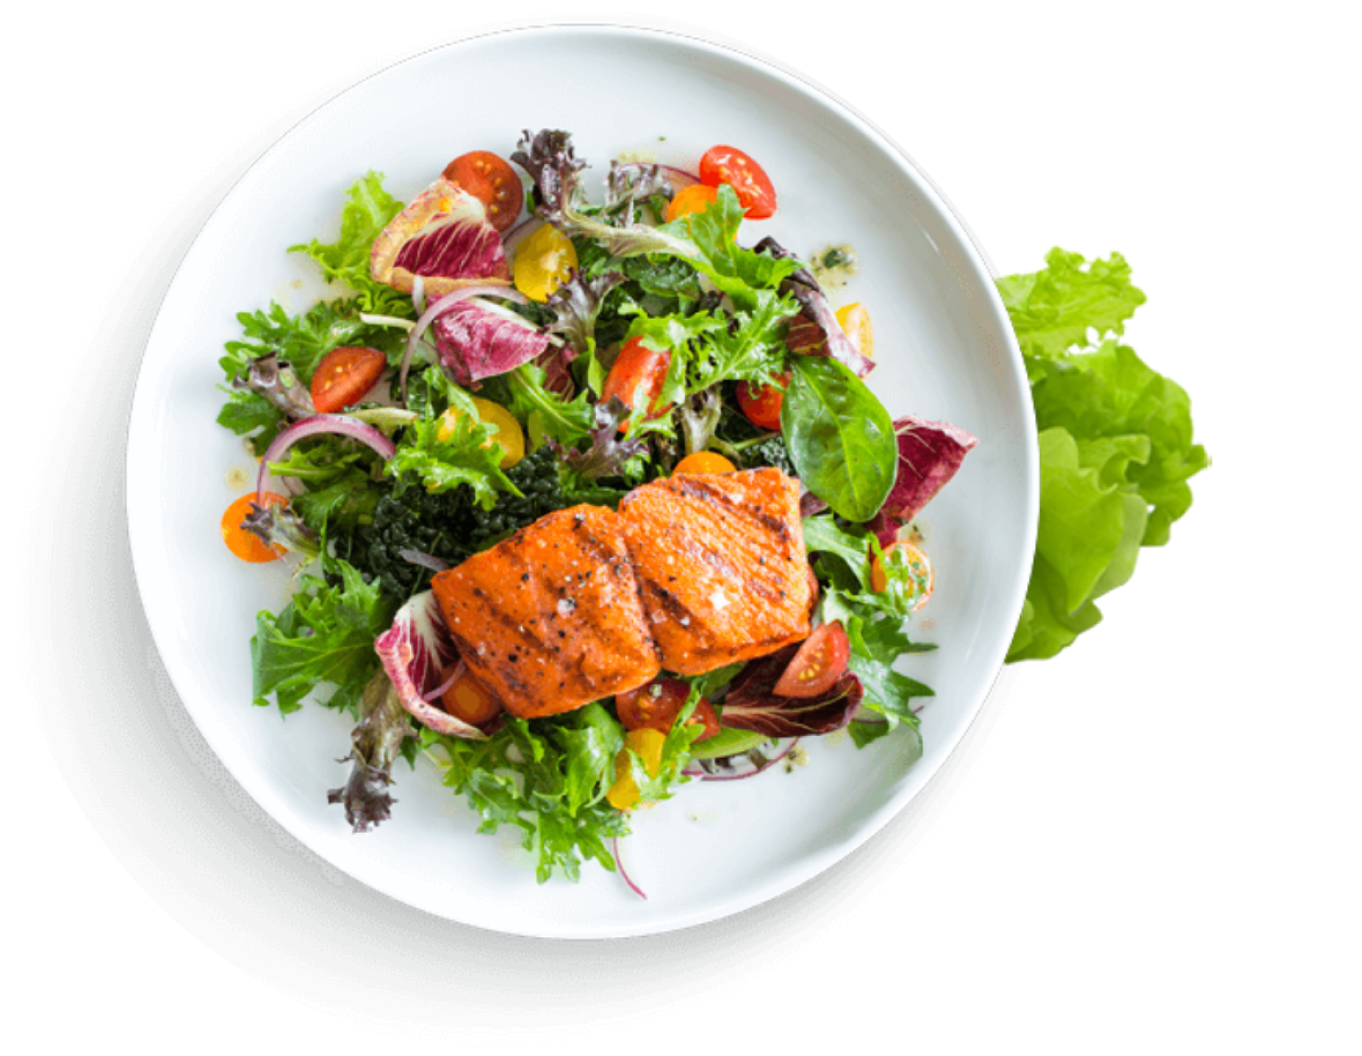
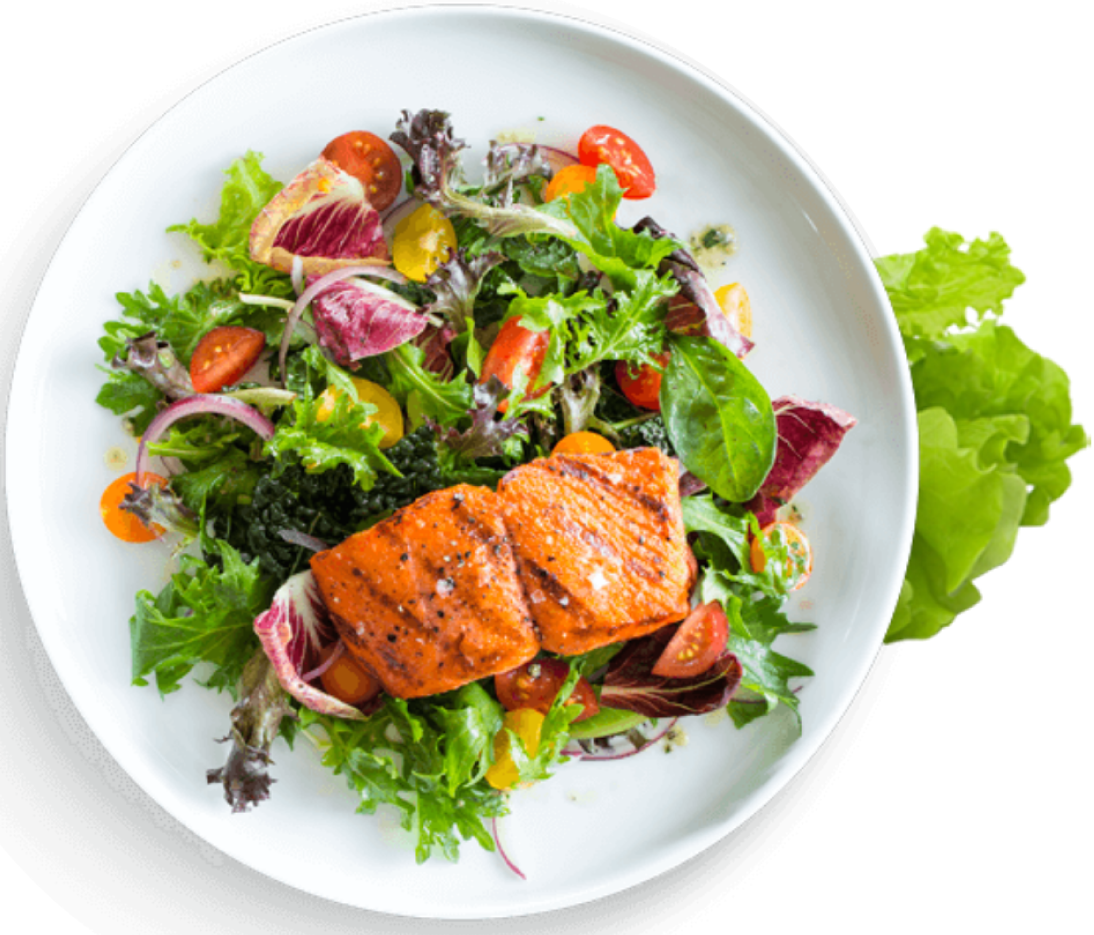
about

diff --git a/style.css b/style.css
@@ -128,7 +128,8 @@ header .hero_section .left p{
     margin-top: 30px;
 }
 
-header .hero_section .left button{
+header .hero_section .left button, 
+#about button.about_btn {
     color: white;
     background-color: var(--color-primary);
     border: none;
@@ -147,3 +148,61 @@ header .hero_section .right img{
     width: 100%;
 }
 /* =========================== END Header ================================ */
+
+/* =========================== About ================================ */
+#about{
+    width: 100%;
+    display: flex;
+    flex-direction: column;
+    align-items: center;
+    justify-content: center;
+}
+
+#about .about_main{
+    display: flex;
+    width: 100%;
+    justify-content: space-between;
+    align-items: center;
+}
+
+#about .about_main .image, #about .about_main .about_text{
+    width: 50%;
+}
+
+#about .about_main .image img{
+    width: 100%;
+}
+
+#about .about_main .about_text h2{
+    font-size: 55px;
+    color: black;
+}
+
+#about .about_main .about_text h2 span{
+    color: var(--color-primary);
+    font-family: mv boli;
+}
+
+#about .about_main .about_text h3{
+    font-size: 30px;
+    color: black;
+    margin-top: 10px;
+}
+
+#about .about_main .about_text p{
+    font-size: 18px;
+    color: black;
+    margin-top: 10px;
+}
+
+#about button.about_btn{
+    margin-top: 0;
+}
+
+/* =========================== END About ================================ */
+
+
+/* =========================== Menu ================================ */
+
+
+/* =========================== END Menu ================================ */

diff --git a/index.html b/index.html
@@ -60,5 +60,26 @@
       <!-- End Hero Section -->
     </header>
     <!-- End Header Section -->
+
+    <!-- About Section -->
+    <section id="about">
+      <div class="about_main">
+        <div class="image">
+          <img src="./assets/images/Food-Plate.png" alt="" />
+        </div>
+        <div class="about_text">
+          <h2><span>About</span> Us</h2>
+          <h3>Why Choose us?</h3>
+          <p>
+            Lorem ipsum dolor sit amet consectetur, adipisicing elit. Reiciendis
+            odio consequuntur non possimus nulla obcaecati eius, cupiditate
+            ipsum illo necessitatibus quis soluta, atque quibusdam consequatur,
+            voluptas iure? Ullam, harum deleniti!
+          </p>
+        </div>
+      </div>
+      <button class="about_btn">Order Now</button>
+    </section>
+    <!-- End About Section -->
   </body>
 </html>
